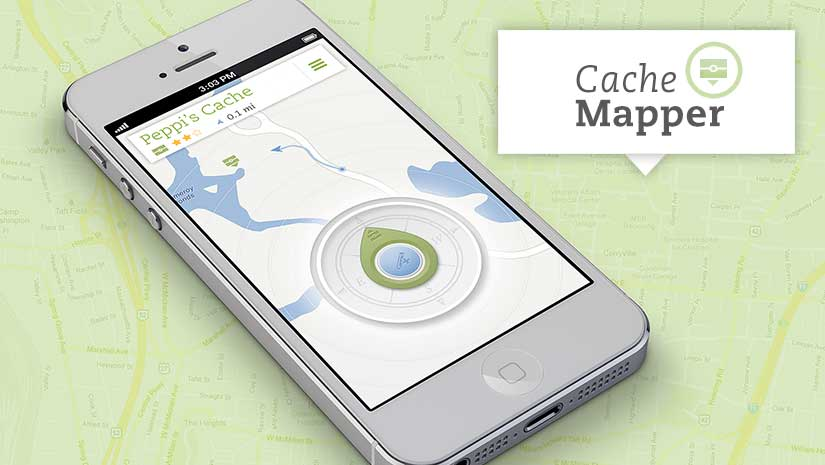
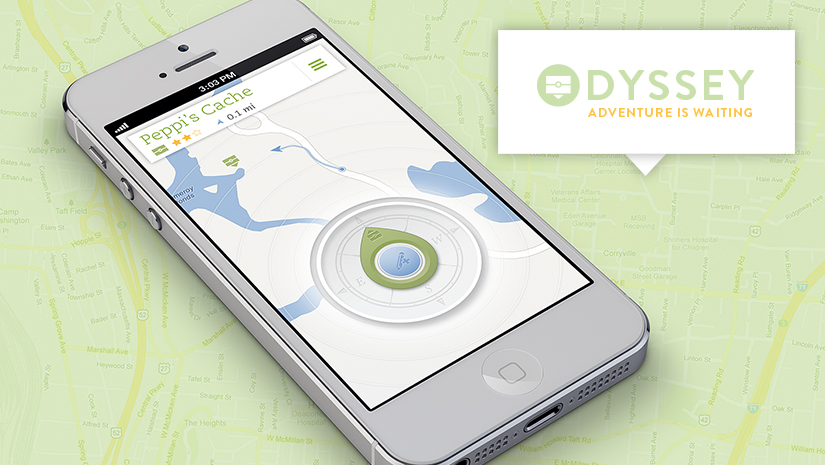
muh new junk

diff --git a/index.html b/index.html
@@ -1312,16 +1312,17 @@ DESIGN EXHIBITION </h3>
 
           <div class="large-8 columns">
              <img class="rotating-item-7D rotatorr" src="images/project_images/Arthur_glamour.jpg" alt="Arthur1" width="825" height="465" />
-              <img class="rotating-item-7D rotatorr" src="images/project_images/Arthur_glamour.jpg" alt="Arthur2" width="825" height="465" />
-              <img class="rotating-item-7D rotatorr" src="images/project_images/Arthur_glamour.jpg" alt="Arthur3" width="825" height="465" />
+              <img class="rotating-item-7D rotatorr" src="images/project_images/Arthur_process1.jpg" alt="Arthur2" width="825" height="465" />
+              <img class="rotating-item-7D rotatorr" src="images/project_images/Arthur_process2.jpg" alt="Arthur3" width="825" height="465" />
+              <img class="rotating-item-7D rotatorr" src="images/project_images/Arthur_process3.jpg" alt="Arthur4" width="825" height="465" />
           </div>
 
           <div class="large-4 columns">
-            <h1> BLAH BLAH STUFF BLAH </h1>
+            <h1> Odyssey </h1>
             <h2> Ryan Arthur </h2>
-            <h3> Thanks for everything. </h3>
-            <p> Ryan's stuff. Most high school students are unaware and unexposed to what design is and how it plays a part in our daily lives. Through a exhibit that will travel from various high schools, students will be educated about design on a basic level, and shown that it is a viable career path. The exhibit includes testimonials from various designers, shows the wide scope of design and demonstrates that design is creative problem solving; not art.</p>
-            <p>Ryan's stuff. Robin began college in architecture and quickly found herself switching to design after she wanted to do her roommate's projects and not her own. She has an adorable dog named Charlie, a love of anything and everything handmade, and hair that hasn't been its natural color since 2006. Her co-ops have taken her all across the country and she is excited to return to LA for her next chapter.</p>
+            <h3> Adventure is waiting </h3>
+            <p> Geocaching is a real-world, outdoor treasure hunting game using GPS-enabled devices. Participants navigate to a specific set of GPS coordinates and then attempt to find the geocache (container) hidden at that location. Geocaches can be found all over the world. It is common for geocachers to hide caches in locations that are important to them, reflecting a special interest or skill of the cache owner. These locations can be quite diverse. They may be at your local park, at the end of a long hike, underwater or on the side of a city street.</p>
+            <p>Geocachers are passionate about adventuring and just as passionate about sharing their experiences. My goal is to create a web and mobile app will help them take their experience one level further. In existing apps users only have the ability to post comments about their adventures. Odyssey will make it easy for users to share photos, videos, as well as comments to log their adventures as they happen.</p>
           </div>    
 
         </div>
